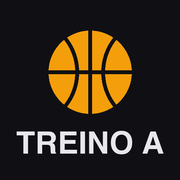
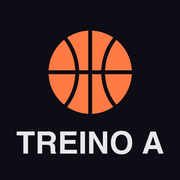
Basquete A: tema próprio dos apps de basquete + campos do topo em largura total
- paleta trocada no gerador (fundo índigo #0e0c14, laranja de bola #ff7a45, blocos azul/rosa/violeta),
  🏀 no título com brilho, barra de progresso em degradê, ícone e manifest no laranja novo
- ênfase e feedback viram linha própria com input em largura total (o input vazava pra fora do box no iPhone)

Changed region(s): [[0.25, 0.1667, 0.75, 0.6389]]

diff --git a/basquete-sexta-a/index.html b/basquete-sexta-a/index.html
@@ -6,47 +6,47 @@
 <meta name="apple-mobile-web-app-capable" content="yes">
 <meta name="apple-mobile-web-app-status-bar-style" content="black-translucent">
 <meta name="apple-mobile-web-app-title" content="Basquete A">
-<meta name="theme-color" content="#101014">
+<meta name="theme-color" content="#0e0c14">
 <link rel="manifest" href="manifest.json">
 <link rel="apple-touch-icon" sizes="180x180" href="icon-180.png">
 <link rel="icon" type="image/png" href="icon-192.png">
 <title>Basquete TREINO A — Sexta</title>
 <style>
   * { margin:0; padding:0; box-sizing:border-box; -webkit-tap-highlight-color:transparent; }
-  html { background:#101014; }
+  html { background:#0e0c14; }
   body {
     font-family:-apple-system,BlinkMacSystemFont,'Segoe UI',Roboto,sans-serif;
-    background:#101014; color:#e8e8ec; max-width:480px; margin:0 auto;
+    background:#0e0c14; color:#e8e8ec; max-width:480px; margin:0 auto;
     padding:0 14px calc(96px + env(safe-area-inset-bottom));
     font-size:16px; line-height:1.45;
   }
-  a { color:#fbbf24; }
+  a { color:#ffb08a; }
 
   .top {
     position:sticky; top:0; z-index:10; background:rgba(16,16,20,.93);
     -webkit-backdrop-filter:blur(10px); backdrop-filter:blur(10px);
     margin:0 -14px; padding:calc(10px + env(safe-area-inset-top)) 14px 0;
-    border-bottom:1px solid #26262c;
+    border-bottom:1px solid #241f2f;
   }
   .top-row { display:flex; align-items:baseline; justify-content:space-between; gap:8px; }
-  .top h1 { font-size:16px; font-weight:800; letter-spacing:-.2px; color:#f59e0b; flex:1; min-width:0; line-height:1.2; }
+  .top h1 { font-size:16px; font-weight:800; letter-spacing:-.2px; color:#ff7a45; flex:1; min-width:0; line-height:1.2; }
   .top h1 small { font-weight:600; color:#9d9da6; font-size:12.5px; white-space:nowrap; }
   .prog-txt { font-size:13px; font-weight:700; color:#8e8e96; font-variant-numeric:tabular-nums; }
   .chips-nav { display:flex; gap:6px; overflow-x:auto; padding:8px 0 10px; scrollbar-width:none; }
   .chips-nav::-webkit-scrollbar { display:none; }
   .chip {
     flex-shrink:0; font-size:13px; font-weight:700; padding:10px 13px; border-radius:8px;
-    background:#1b1b21; border:1px solid #35353d; color:#9d9da6; white-space:nowrap;
+    background:#1a1622; border:1px solid #2e2839; color:#9d9da6; white-space:nowrap;
     text-decoration:none;
   }
-  .chip.on { background:var(--bc); border-color:var(--bc); color:#101014; }
-  .pbar { height:3px; background:#1e1e24; margin:0 -14px; }
-  .pbar i { display:block; height:100%; width:0%; background:#f59e0b; transition:width .4s; }
+  .chip.on { background:var(--bc); border-color:var(--bc); color:#0e0c14; }
+  .pbar { height:3px; background:#211c2b; margin:0 -14px; }
+  .pbar i { display:block; height:100%; width:0%; background:#ff7a45; transition:width .4s; }
 
   .sub { font-size:12.5px; color:#8e8e96; margin:12px 0 0; text-align:center; }
 
   details.notas {
-    background:#1b1b21; border:1px solid #35353d; border-radius:10px;
+    background:#1a1622; border:1px solid #2e2839; border-radius:10px;
     padding:0 14px; margin:12px 0 4px;
   }
   details.notas summary {
@@ -54,12 +54,12 @@
     padding:11px 0; display:flex; align-items:center; gap:6px;
   }
   details.notas summary::-webkit-details-marker { display:none; }
-  details.notas summary::before { content:"▸"; color:#f59e0b; transition:transform .2s; }
+  details.notas summary::before { content:"▸"; color:#ff7a45; transition:transform .2s; }
   details.notas[open] summary::before { transform:rotate(90deg); }
   details.notas p { font-size:13.5px; color:#aeaeb8; line-height:1.55; padding-bottom:10px; }
   details.notas p strong { color:#e8e8ec; }
 
-  section.bloco { --acc:#f59e0b; scroll-margin-top:calc(100px + env(safe-area-inset-top)); }
+  section.bloco { --acc:#ff7a45; scroll-margin-top:calc(100px + env(safe-area-inset-top)); }
   .bh {
     display:flex; align-items:center; justify-content:space-between; gap:10px;
     margin:22px 0 10px; padding:10px 14px; border-radius:8px;
@@ -68,13 +68,13 @@
     scroll-margin-top:calc(100px + env(safe-area-inset-top));
   }
   @supports not (background: color-mix(in srgb, red 10%, transparent)) {
-    .bh { background:#1b1b21; }
+    .bh { background:#1a1622; }
   }
   .bh h2 { font-size:14.5px; font-weight:800; color:var(--acc); }
   .bh h2 small { display:block; font-size:12px; font-weight:600; color:#9d9da6; margin-top:1px; }
 
   .ex {
-    background:#1b1b21; border:1px solid #35353d; border-radius:12px;
+    background:#1a1622; border:1px solid #2e2839; border-radius:12px;
     padding:14px 14px 12px; margin-bottom:12px; transition:opacity .3s, border-color .3s;
     scroll-margin-top:calc(100px + env(safe-area-inset-top));
   }
@@ -85,7 +85,7 @@
 
   .ex-head { display:flex; align-items:flex-start; gap:10px; }
   .num {
-    min-width:30px; height:28px; padding:0 6px; border-radius:8px; background:var(--acc); color:#101014;
+    min-width:30px; height:28px; padding:0 6px; border-radius:8px; background:var(--acc); color:#0e0c14;
     font-weight:800; font-size:12.5px; display:flex; align-items:center; justify-content:center;
     flex-shrink:0; margin-top:1px; cursor:pointer;
   }
@@ -97,20 +97,20 @@
   }
   .done-btn {
     width:44px; height:44px; margin:-8px -8px 0 0; flex-shrink:0; border-radius:10px;
-    border:1.5px solid #35353d; background:transparent;
+    border:1.5px solid #2e2839; background:transparent;
     color:#6f6f78; font-size:18px; font-weight:800; cursor:pointer;
   }
-  .is-done .done-btn { background:#4ade80; border-color:#4ade80; color:#101014; }
+  .is-done .done-btn { background:#4ade80; border-color:#4ade80; color:#0e0c14; }
 
   .media { display:flex; gap:12px; margin:10px 0 11px; align-items:flex-start; }
   .thumb {
     width:104px; height:78px; object-fit:cover; border-radius:8px;
-    border:1px solid #35353d; flex-shrink:0; cursor:pointer; background:#141419;
+    border:1px solid #2e2839; flex-shrink:0; cursor:pointer; background:#13101a;
   }
   .media-right { flex:1; min-width:0; }
   .dose { display:flex; flex-wrap:wrap; gap:6px; margin-bottom:7px; }
   .dose span {
-    background:#101014; border:1px solid #35353d; border-radius:6px;
+    background:#0e0c14; border:1px solid #2e2839; border-radius:6px;
     padding:4px 9px; font-size:14.5px; font-weight:800; font-variant-numeric:tabular-nums;
   }
   .dose span.eq { font-weight:600; color:#9d9da6; font-size:12.5px; align-self:center; border-style:dashed; }
@@ -122,13 +122,13 @@
     background:transparent; color:var(--acc); font-size:16.5px; font-weight:800;
     font-variant-numeric:tabular-nums; cursor:pointer; transition:background .2s; margin-top:6px;
   }
-  .go.running { background:var(--acc); color:#101014; font-size:24px; }
-  .go.paused { background:#1e1e24; border-color:#9d9da6; color:#e8e8ec; }
+  .go.running { background:var(--acc); color:#0e0c14; font-size:24px; }
+  .go.paused { background:#211c2b; border-color:#9d9da6; color:#e8e8ec; }
   .is-done .go { border-color:#4ade80; color:#4ade80; font-size:15px; }
 
-  details.how { margin-top:10px; border-top:1px solid #26262c; padding-top:2px; }
+  details.how { margin-top:10px; border-top:1px solid #241f2f; padding-top:2px; }
   details.how summary {
-    list-style:none; cursor:pointer; font-size:13px; font-weight:700; color:#fbbf24;
+    list-style:none; cursor:pointer; font-size:13px; font-weight:700; color:#ffb08a;
     padding:11px 0; display:flex; align-items:center; gap:6px;
   }
   details.how summary::-webkit-details-marker { display:none; }
@@ -137,8 +137,8 @@
   .how-body { padding:2px 0 6px; }
   .how-body p { font-size:14px; color:#aeaeb8; line-height:1.55; margin-bottom:10px; }
   .how-body p strong { color:#e8e8ec; }
-  .links { background:#101014; border:1px solid #26262c; border-radius:8px; padding:8px 12px; }
-  .links .lh { font-size:11px; font-weight:800; text-transform:uppercase; letter-spacing:.6px; color:#fbbf24; margin-bottom:3px; }
+  .links { background:#0e0c14; border:1px solid #241f2f; border-radius:8px; padding:8px 12px; }
+  .links .lh { font-size:11px; font-weight:800; text-transform:uppercase; letter-spacing:.6px; color:#ffb08a; margin-bottom:3px; }
   .links a { display:block; color:#aeaeb8; text-decoration:none; font-size:13.5px; padding:10px 0; }
   .links a::before { content:"→ "; color:var(--acc); }
 
@@ -147,36 +147,36 @@
   .frow { display:flex; align-items:center; gap:8px; }
   .frow label { flex:1; font-size:13.5px; color:#aeaeb8; }
   .frow input[type=number], .frow input[type=text] {
-    background:#101014; border:1px solid #35353d; border-radius:8px; color:#e8e8ec;
+    background:#0e0c14; border:1px solid #2e2839; border-radius:8px; color:#e8e8ec;
     font-size:16px; font-weight:700; padding:10px 8px; text-align:center;
   }
   .frow input[type=number] { width:74px; }
   .frow input[type=text] { flex:1.2; text-align:left; font-weight:600; }
   .frm textarea {
-    background:#101014; border:1px solid #35353d; border-radius:8px; color:#e8e8ec;
+    background:#0e0c14; border:1px solid #2e2839; border-radius:8px; color:#e8e8ec;
     font-size:16px; padding:10px; min-height:74px; width:100%; font-family:inherit;
   }
   .seg { display:flex; gap:6px; }
   .seg button {
-    border:1.5px solid #35353d; background:transparent; color:#9d9da6; border-radius:8px;
+    border:1.5px solid #2e2839; background:transparent; color:#9d9da6; border-radius:8px;
     font-size:14px; font-weight:700; padding:10px 16px; cursor:pointer;
   }
-  .seg button.on { background:#f59e0b; border-color:#f59e0b; color:#101014; }
+  .seg button.on { background:#ff7a45; border-color:#ff7a45; color:#0e0c14; }
 
   .foot { text-align:center; margin-top:26px; font-size:12.5px; color:#8e8e96; line-height:1.7; }
   .foot-btns { display:flex; flex-direction:column; align-items:center; gap:10px; margin-bottom:14px; }
   .foot .reset, .foot .copiar {
-    background:#1e1e24; border:1px solid #35353d; border-radius:10px;
+    background:#211c2b; border:1px solid #2e2839; border-radius:10px;
     font-size:14px; font-weight:700; padding:11px 18px; cursor:pointer; min-height:44px;
   }
-  .foot .reset { color:#f59e0b; border-color:#4a3a14; }
+  .foot .reset { color:#ff7a45; border-color:#4a2f1f; }
   .foot .copiar { color:#aeaeb8; font-size:13px; }
   .savemsg { font-size:12px; color:#4ade80; min-height:16px; }
   .savemsg.err { color:#f87171; font-weight:700; }
-  .resumo-box { width:100%; min-height:140px; margin-top:10px; background:#16161b; color:#e8e8ec; border:1px solid #35353d;
+  .resumo-box { width:100%; min-height:140px; margin-top:10px; background:#151220; color:#e8e8ec; border:1px solid #2e2839;
     border-radius:10px; padding:10px; font-size:13px; line-height:1.4; font-family:inherit; }
   .sub.ref { margin-top:6px; color:#8e8e96; }
-  .fora { background:#3a2a10; color:#fbbf24; font-size:12.5px; line-height:1.4; text-align:center; padding:8px 12px; border-radius:8px; margin:10px 0 0; }
+  .fora { background:#3a2416; color:#ffb08a; font-size:12.5px; line-height:1.4; text-align:center; padding:8px 12px; border-radius:8px; margin:10px 0 0; }
   .antes { color:#8e8e96; font-size:12px; font-weight:600; white-space:nowrap; }
 
   /* -------- Treino A: modo, relógio, avisos -------- */
@@ -184,12 +184,14 @@
   .top-sub { font-size:12px; color:#8e8e96; padding:3px 0 0; font-variant-numeric:tabular-nums; }
   .banner {
     display:flex; align-items:center; gap:10px; margin:0 0 8px; padding:9px 12px; border-radius:8px;
-    background:#3a2a10; color:#fbbf24; font-size:13.5px; font-weight:700; line-height:1.35;
+    background:#3a2416; color:#ffb08a; font-size:13.5px; font-weight:700; line-height:1.35;
   }
-  .banner button { margin-left:auto; flex-shrink:0; background:transparent; border:1px solid #fbbf24; color:#fbbf24; border-radius:6px; min-width:44px; min-height:36px; font-weight:800; cursor:pointer; }
-  .hdrbox { background:#1b1b21; border:1px solid #35353d; border-radius:10px; padding:10px 12px; margin:12px 0 0; display:flex; flex-direction:column; gap:9px; }
+  .banner button { margin-left:auto; flex-shrink:0; background:transparent; border:1px solid #ffb08a; color:#ffb08a; border-radius:6px; min-width:44px; min-height:36px; font-weight:800; cursor:pointer; }
+  .hdrbox { background:#1a1622; border:1px solid #2e2839; border-radius:10px; padding:10px 12px; margin:12px 0 0; display:flex; flex-direction:column; gap:9px; }
   .hdrbox .frow label { font-size:13px; }
-  .hdrbox .frow input[type=text] { flex:1.1; }
+  .hdrbox .frow input { min-width:0; }
+  .hdrbox .frow.col { flex-direction:column; align-items:stretch; gap:5px; }
+  .hdrbox .frow.col input[type=text] { width:100%; flex:none; text-align:left; }
   .modo-row { display:flex; align-items:center; gap:10px; }
   .modo-row label { font-size:13px; color:#9d9da6; font-weight:700; }
   .modo-row .seg { flex:1; }
@@ -202,19 +204,19 @@
   .crow label { font-size:13px; color:#9d9da6; font-weight:700; flex:1; min-width:0; line-height:1.3; }
   .crow .cin { display:flex; align-items:center; gap:5px; flex-shrink:0; }
   input.ac, input.tt {
-    background:#101014; border:1px solid #35353d; border-radius:8px; color:#e8e8ec;
+    background:#0e0c14; border:1px solid #2e2839; border-radius:8px; color:#e8e8ec;
     font-size:16px; font-weight:700; padding:10px 4px; text-align:center; width:58px; min-width:0;
     font-variant-numeric:tabular-nums;
   }
   input.tt { width:50px; color:#9d9da6; font-weight:600; }
   input.ac::placeholder, input.tt::placeholder { color:#5c5c66; font-weight:600; }
-  .crow input.tx { flex:1.3; min-width:0; background:#101014; border:1px solid #35353d; border-radius:8px; color:#e8e8ec; font-size:16px; font-weight:600; padding:10px 8px; }
+  .crow input.tx { flex:1.3; min-width:0; background:#0e0c14; border:1px solid #2e2839; border-radius:8px; color:#e8e8ec; font-size:16px; font-weight:600; padding:10px 8px; }
   .crow input.tx::placeholder { color:#5c5c66; }
   .den, .x { color:#6f6f78; font-size:13px; font-weight:700; flex-shrink:0; }
   .crow .stot { font-size:14.5px; font-weight:800; font-variant-numeric:tabular-nums; }
   .seg-row .seg { flex-wrap:wrap; }
   .seg button { min-height:44px; }
-  .spots { margin:8px 0 4px; border-top:1px solid #26262c; padding-top:6px; }
+  .spots { margin:8px 0 4px; border-top:1px solid #241f2f; padding-top:6px; }
   .sph { display:flex; justify-content:space-between; align-items:baseline; gap:8px; font-size:13px; font-weight:800; color:var(--acc); padding:2px 0 4px; }
   .sph .stot { color:#e8e8ec; font-variant-numeric:tabular-nums; white-space:nowrap; }
   .sprow { display:flex; align-items:center; gap:6px; padding:3px 0; }
@@ -229,12 +231,12 @@
   .ex.extra { border-style:dashed; }
 
   /* -------- Treino A: histórico do benchmark -------- */
-  .hist { background:#101014; border:1px solid #26262c; border-radius:8px; padding:10px 12px; margin:10px 0 4px; }
+  .hist { background:#0e0c14; border:1px solid #241f2f; border-radius:8px; padding:10px 12px; margin:10px 0 4px; }
   .hh { font-size:11px; font-weight:800; text-transform:uppercase; letter-spacing:.6px; color:var(--acc); }
   .hbig { font-size:34px; font-weight:800; line-height:1.15; font-variant-numeric:tabular-nums; }
   .hsm { font-size:12.5px; color:#8e8e96; line-height:1.4; }
-  .hnote { font-size:12.5px; color:#aeaeb8; margin-top:6px; border-top:1px solid #26262c; padding-top:6px; line-height:1.4; }
-  .hwarn { font-size:13px; color:#fbbf24; font-weight:700; margin-bottom:6px; line-height:1.35; }
+  .hnote { font-size:12.5px; color:#aeaeb8; margin-top:6px; border-top:1px solid #241f2f; padding-top:6px; line-height:1.4; }
+  .hwarn { font-size:13px; color:#ffb08a; font-weight:700; margin-bottom:6px; line-height:1.35; }
   details.hlist { margin-top:4px; }
   details.hlist summary { list-style:none; font-size:12.5px; color:#9d9da6; font-weight:700; cursor:pointer; padding:8px 0; }
   details.hlist summary::-webkit-details-marker { display:none; }
@@ -248,13 +250,19 @@
   .desc ol, .desc ul { padding-left:20px; margin:0 0 10px; font-size:14px; color:#aeaeb8; line-height:1.55; }
   .desc li { margin-bottom:3px; }
   .vid-swap { margin-top:8px; font-size:11.5px; color:#6f6f78; line-height:1.5; }
+
+  /* -------- tema basquete (paleta trocada no gerador: fundo índigo, laranja de bola) -------- */
+  .top h1 { text-shadow:0 0 18px rgba(255,122,69,.35); }
+  .pbar { background:#241f2f; }
+  .pbar i { background:linear-gradient(90deg,#ff7a45,#c084fc); }
+  .top { border-bottom-color:#3a2f4a; }
 </style>
 </head>
 <body>
 
 <div class="top">
   <div class="top-row">
-    <h1>SEX · TREINO A <small>— Shooting + Handle</small></h1>
+    <h1>🏀 SEX · TREINO A <small>— Shooting + Handle</small></h1>
     <span class="prog-txt" id="progTxt">0/109 arremessos</span>
   </div>
   <div class="top-sub" id="relogio"></div>
@@ -269,8 +277,8 @@
 <div class="hdrbox" id="hdrbox">
   <div class="modo-row"><label>Modo</label><span class="seg" id="modoSeg"><button type="button" data-v="completa">Completa</button><button type="button" data-v="curta">Curta</button><button type="button" data-v="segunda">Segunda</button></span></div>
   <div class="modo-desc" id="modoDesc"></div>
-  <div class="frow"><label>Ênfase técnica da semana <span class="antes">(revisão de domingo)</span></label><input type="text" id="hdr_enfase"></div>
-  <div class="frow"><label>Feedback do personal <span class="antes">(terça)</span></label><input type="text" id="hdr_feedback"></div>
+  <div class="frow col"><label>Ênfase técnica da semana <span class="antes">(revisão de domingo)</span></label><input type="text" id="hdr_enfase"></div>
+  <div class="frow col"><label>Feedback do personal <span class="antes">(terça)</span></label><input type="text" id="hdr_feedback"></div>
   <div class="frow"><label>Joelho de manhã (0–10) <span class="antes">&gt; 3 fecha o EXTRA</span></label><input type="number" inputmode="numeric" min="0" max="10" id="hdr_joelho"></div>
   <div class="dica">Apertou o tempo na Completa? Corta nesta ordem: <b>3-B → 4 → 2ª volta do 2-B</b>. Benchmark e lances livres nunca saem.</div>
 </div>
@@ -312,13 +320,13 @@
 <script>
 // ===================== DADOS =====================
 var BLOCOS = [
-  { id:'b1', cor:'#94a3b8', nav:'1 · Prep',      titulo:'BLOCO 1 — PREPARAÇÃO',       sub:'5 min · 5 movimentos × 1 min · na Curta: 3 min' },
-  { id:'b2', cor:'#f59e0b', nav:'2 · Arremesso', titulo:'BLOCO 2 — ARREMESSO',        sub:'25 min · 58 tentativas · calibração → construção do 3PT' },
-  { id:'b3', cor:'#22d3ee', nav:'3 · Handle',    titulo:'BLOCO 3 — HANDLE FUNCIONAL', sub:'15 min · estacionário → em movimento' },
+  { id:'b1', cor:'#9aa3c7', nav:'1 · Prep',      titulo:'BLOCO 1 — PREPARAÇÃO',       sub:'5 min · 5 movimentos × 1 min · na Curta: 3 min' },
+  { id:'b2', cor:'#ff7a45', nav:'2 · Arremesso', titulo:'BLOCO 2 — ARREMESSO',        sub:'25 min · 58 tentativas · calibração → construção do 3PT' },
+  { id:'b3', cor:'#38bdf8', nav:'3 · Handle',    titulo:'BLOCO 3 — HANDLE FUNCIONAL', sub:'15 min · estacionário → em movimento' },
   { id:'b4', cor:'#fb7185', nav:'4 · Pull-up',   titulo:'BLOCO 4 — DRIBLE → CHUTE',   sub:'10 min · 16 tentativas · 4 séries de 4' },
-  { id:'b5', cor:'#a78bfa', nav:'5 · Fecho',     titulo:'BLOCO 5 — FECHAMENTO',       sub:'15 min · benchmark 25 + lances livres 10 · nunca saem' },
+  { id:'b5', cor:'#c084fc', nav:'5 · Fecho',     titulo:'BLOCO 5 — FECHAMENTO',       sub:'15 min · benchmark 25 + lances livres 10 · nunca saem' },
   { id:'ex', cor:'#f87171', nav:'Extra',         titulo:'EXTRA — SPRINTS COM BOLA',   sub:'6–8 min · opcional · não conta como falha' },
-  { id:'hj', cor:'#94a3b8', nav:'Hoje',          titulo:'COMO FOI HOJE',              sub:'preenche no fim — entra no resumo e no histórico do benchmark' }
+  { id:'hj', cor:'#9aa3c7', nav:'Hoje',          titulo:'COMO FOI HOJE',              sub:'preenche no fim — entra no resumo e no histórico do benchmark' }
 ];
 
 // Card: steps (✓ marcar / timer por timestamp), ui (campos na ordem: go · spots · cnt · txt · seg · nota · trav · bench · calc),
@@ -350,7 +358,7 @@ var DATA = [
 
 { id:'cs', b:'b2', num:'2-B', name:'Construção do 3PT (catch-and-shoot)', img:'img/v_ecPyYg53Rw8.jpg',
   chips:['20 min','2 voltas × 5 posições × 4 = 40'], eq:'~1 m pra dentro da linha FIBA · marca as posições', filtraCurta:true,
-  badge:['BLOCO CENTRAL','#f59e0b'],
+  badge:['BLOCO CENTRAL','#ff7a45'],
   cue:'Autopasse com giro (<i>spin-out</i>) → recepção → arremesso, <b>sem drible</b>. Ordem fixa: Canto E → Ala E → Topo → Ala D → Canto D (olhando pra cesta).',
   steps:[ { t:'Volta 1 · 5 posições × 4 · 20 bolas', c:true }, { t:'Volta 2 · 5 posições × 4 · 20 bolas' } ],
   ui:[ { t:'go' },
@@ -401,7 +409,7 @@ var DATA = [
 
 { id:'bench', b:'b5', num:'5-A', name:'Benchmark', img:'img/v_ecPyYg53Rw8.jpg',
   chips:['~10 min','5 posições × 5 = 25'], eq:'90 s de pausa antes · não reiniciar', modos:['completa','curta'],
-  badge:['1×/SEMANA · SEXTA','#a78bfa'],
+  badge:['1×/SEMANA · SEXTA','#c084fc'],
   cue:'Fica no <b>fim de propósito</b>: arremesso de 3 em jogo acontece com perna cansada. Conta <b>todas</b> as bolas, inclusive as de recepção ruim. Pisou na linha (FIBA) = falha.',
   steps:[ { t:'Pausa obrigatória antes do teste', s:90 }, { t:'25 bolas · CE → AE → TP → AD → CD · autopasse, sem drible' } ],
   ui:[ { t:'seg', k:'bench_proto', lab:'Protocolo', opts:['FIBA 25','Referência 25'] },
